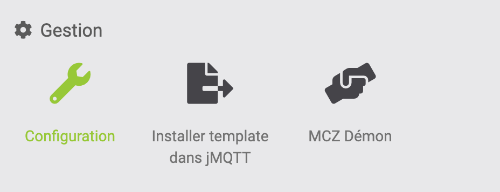
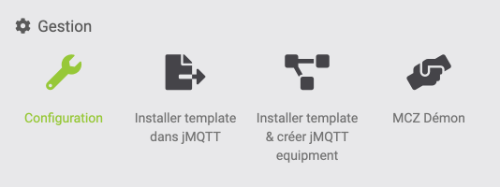
Installer & créer jMQTT equipement

diff --git a/desktop/js/mczremote.js b/desktop/js/mczremote.js
@@ -44,7 +44,7 @@ $('#bt_InstallTemplate').off('click').on('click', function() {
 /**
  * Add MCZRemote equipment callback
  */
-/*** 
+
 $('.eqLogicAction[data-action=add_MCZR]').on('click', function () {
     var eqL = {type: 'eqpt'};
     var prompt = "{{Nom de l'équipement ?}}";
@@ -77,7 +77,7 @@ $('.eqLogicAction[data-action=add_MCZR]').on('click', function () {
         }
     });
 });
-***/
+
 
 
 $('#bt_healthmczremote').on('click', function () {

diff --git a/core/class/mczremote.class.php b/core/class/mczremote.class.php
@@ -55,6 +55,7 @@ class mczremote extends eqLogic {
 
 	public static function installTemplate() {
 		$found = 0;
+		log::add('mczremote', 'debug',"installTemplate");
 		$pluginList = plugin::listPlugin($_activateOnly = true, $_orderByCategory = false, $_translate = true, $_nameOnly = true);
 		if (is_array($pluginList)) {
 			foreach ($pluginList as $val) {
@@ -66,7 +67,18 @@ class mczremote extends eqLogic {
 				//log::add('mczremote', 'debug', 'plugin: ' . $val);
 			}
 		}
-		if ($found) {
+		if ($found == 0) {
+			log::add('mczremote', 'error',"Le plugin jMQTT n'est pas installé (I01)");
+			throw new Exception("Le plugin jMQTT n'est pas installé (I01)");
+		} else {
+			if (!method_exists('jMQTT', 'templateSplitJsonPathByFile')) {
+				log::add('mczremote', 'error',"La version installée de jMQTT n'est pas assez récente (I02)");
+				throw new Exception("La version installée de jMQTT n'est pas assez récente (I02)");
+			}
+			if (!method_exists('jMQTT', 'moveTopicToConfigurationByFile')) {
+				log::add('mczremote', 'error',"La version installée de jMQTT n'est pas assez récente (I03)");
+				throw new Exception("La version installée de jMQTT n'est pas assez récente (I03)");
+			}
 			//log::add('mczremote', 'debug', 'jMQTT found  and path: ' . $pathPlugin);
 			$jMQTTPathTemplate = $pathPlugin . '/data/template' . '/MCZRemote.json';
 			$MCZRemotePathTemplate = plugin::getPluginPath('mczremote') . '/data/template' . '/MCZRemote.json';
@@ -74,18 +86,14 @@ class mczremote extends eqLogic {
 			if (file_exists( $MCZRemotePathTemplate)) {
 				$result = copy($MCZRemotePathTemplate, $jMQTTPathTemplate );
 				if ($result) {
-					if (method_exists('jMQTT', 'templateSplitJsonPathByFile')) {
-						log::add('mczremote', 'debug','Methode jMQTT::templateSplitJsonPathByFile  exist');
-						// Adapt template for the new jsonPath field
-						jMQTT::templateSplitJsonPathByFile('MCZRemote.json');
-						// Adapt template for the topic in configuration
-						jMQTT::moveTopicToConfigurationByFile('MCZRemote.json');
-					} else {
-						log::add('mczremote', 'warning','Methode jMQTT::templateSplitJsonPathByFile  not found');
-					}
+					// Adapt template for the new jsonPath field
+					jMQTT::templateSplitJsonPathByFile('MCZRemote.json');
+					// Adapt template for the topic in configuration
+					jMQTT::moveTopicToConfigurationByFile('MCZRemote.json');
 					log::add('mczremote', 'debug', 'Installation du template dans jMQTT  OK');
 				} else {
-					log::add('mczremote', 'warning', 'Installation du template dans jMQTT  NOK');
+					log::add('mczremote', 'warning', 'Installation du template dans jMQTT  NOK. (I04)');
+					throw new Exception("Installation du template dans jMQTT  NOK. (I04)");
 				}
 				
 			}
@@ -93,10 +101,11 @@ class mczremote extends eqLogic {
 
 	}
 
-/***
+
 	public static function createEqptWithTemplate($eqptName = '') {
 		$return = 0;
 		$found = 0;
+		log::add('mczremote', 'debug',"createEqptWithTemplate");
 		$pluginList = plugin::listPlugin($_activateOnly = true, $_orderByCategory = false, $_translate = true, $_nameOnly = true);
 		if (is_array($pluginList)) {
 			foreach ($pluginList as $val) {
@@ -108,7 +117,25 @@ class mczremote extends eqLogic {
 				//log::add('mczremote', 'debug', 'plugin: ' . $val);
 			}
 		}
-		if ($found) {
+		if ($found == 0) {
+			log::add('mczremote', 'error',"Le plugin jMQTT n'est pas installé (C01)");
+			throw new Exception("Le plugin jMQTT n'est pas installé (C01)");
+		} else {
+			if (!method_exists('jMQTT', 'createEqWithTemplate')) {
+				log::add('mczremote', 'error','La version installée de jMQTT ne supporte pas cette fonction. (C02)');
+				throw new Exception("La version installée de jMQTT ne supporte pas cette fonction. (C02)");
+				$return = 1;				
+			}
+			if (!method_exists('jMQTT', 'templateSplitJsonPathByFile')) {
+				log::add('mczremote', 'error',"La version installée de jMQTT n'est pas assez récente. (C03)");
+				throw new Exception("La version installée de jMQTT n'est pas assez récente. (C03)");
+			}
+			if (!method_exists('jMQTT', 'moveTopicToConfigurationByFile')) {
+				log::add('mczremote', 'error',"La version installée de jMQTT n'est pas assez récente. (C04)");
+				throw new Exception("La version installée de jMQTT n'est pas assez récente (C04)");
+			}
+
+
 			//log::add('mczremote', 'debug', 'jMQTT found  and path: ' . $pathPlugin);
 			$jMQTTPathTemplate = $pathPlugin . '/data/template' . '/MCZRemote.json';
 			$MCZRemotePathTemplate = plugin::getPluginPath('mczremote') . '/data/template' . '/MCZRemote.json';
@@ -116,40 +143,29 @@ class mczremote extends eqLogic {
 			if (file_exists( $MCZRemotePathTemplate)) {
 				$result = copy($MCZRemotePathTemplate, $jMQTTPathTemplate );
 				if ($result) {
-					if (method_exists('jMQTT', 'templateSplitJsonPathByFile')) {
-						log::add('mczremote', 'debug','Methode jMQTT::templateSplitJsonPathByFile  exist');
-						// Adapt template for the new jsonPath field
-						jMQTT::templateSplitJsonPathByFile('MCZRemote.json');
-						// Adapt template for the topic in configuration
-						jMQTT::moveTopicToConfigurationByFile('MCZRemote.json');
-					} else {
-						log::add('mczremote', 'warning','Methode jMQTT::templateSplitJsonPathByFile  not found');
-					}
-					log::add('mczremote', 'debug', 'Installation du template dans jMQTT  OK');
+					// Adapt template for the new jsonPath field
+					jMQTT::templateSplitJsonPathByFile('MCZRemote.json');
+					// Adapt template for the topic in configuration
+					jMQTT::moveTopicToConfigurationByFile('MCZRemote.json');
 				} else {
-					log::add('mczremote', 'warning', 'Installation du template dans jMQTT  NOK');
+					log::add('mczremote', 'warning', 'Installation du template dans jMQTT  NOK. (C05)');
+					throw new Exception("Installation du template dans jMQTT  NOK. (C05)");
 				}				
 			}
 
-			if (method_exists('jMQTT', 'createEqWithTemplate')) {
-				log::add('mczremote', 'debug','Methode jMQTT::createEqWithTemplate  exist');
+			// Recuperation des infos utiles pour appel jMQTT::createEqWithTemplate
+			$brkAddr = config::byKey('MQTTip', __CLASS__); 		// IP ou Hostname du Broker cible (afin de le retrouver)
+			$eqName = $eqptName;  								// Nom à donner à l'équipement dans jMQTT
+			$pathTemplate = $jMQTTPathTemplate;   				// '/var/www/........'; // Chemin vers la Template à appliquer
+			$eqTopic = config::byKey('TopicPub', __CLASS__); 	// Topic de base à remplacer dans la Template
+			$uuid = 'MCZR_eqpt'; 								// Pour retrouver l'eq lors d'un nouvel appel à la méthode
+			$eq = jMQTT::createEqWithTemplate($brkAddr, $eqName, $pathTemplate, $eqTopic, $uuid);
+			$return = 0;
 
-				// Recuperation des infos utiles pour appel jMQTT
-				$brkAddr = config::byKey('MQTTip', __CLASS__); 		// IP ou Hostname du Broker cible (afin de le retrouver)
-				$eqName = $eqptName;  								// Nom à donner à l'équipement dans jMQTT
-				$pathTemplate = $jMQTTPathTemplate;   				// '/var/www/........'; // Chemin vers la Template à appliquer
-				$eqTopic = config::byKey('TopicPub', __CLASS__); 	// Topic de base à remplacer dans la Template
-				$uuid = 'MCZR_eqpt'; 								// Pour retrouver l'eq lors d'un nouvel appel à la méthode
-				$eq = jMQTT::createEqWithTemplate($brkAddr, $eqName, $pathTemplate, $eqTopic, $uuid);
-				$return = 0;
-			} else {
-				log::add('mczremote', 'warning','Methode jMQTT::createEqWithTemplate  not found');
-				$return = 1;
-			}
 		}
 		return ($return); 
 	}
-***/
+
 
 	public static function deamon_info() {
 		$return = array();

diff --git a/desktop/php/mczremote.php b/desktop/php/mczremote.php
@@ -21,13 +21,11 @@ $eqLogics = eqLogic::byType($plugin->getId());
                 <br>
                 <span>{{Installer template dans jMQTT}}</span>
             </div>
-            <!---
             <div class="cursor eqLogicAction logoSecondary" data-action="add_MCZR">
                 <i class="fas fa-project-diagram"></i>
                 <br>
                 <span>{{Installer template & créer jMQTT equipment}}</span>
             </div>
-            --->
             <div class="cursor eqLogicAction logoSecondary" id="bt_healthmczremote">
                 <i class="fas fa-hands-helping"></i>
                 <br>

diff --git a/core/ajax/mczremote.ajax.php b/core/ajax/mczremote.ajax.php
@@ -31,7 +31,7 @@ try {
         ajax::success();
     }
 
-/***
+
     if (init('action') == 'createEqptWithTemplate') {
         log::add('mczremote', 'debug', 'Test:' . init('eqptName'));
         $result = mczremote::createEqptWithTemplate(init('eqptName'));
@@ -40,7 +40,6 @@ try {
         }
         ajax::success();
     }
-***/
 
     if (init('action') == 'health') {
         $data = md5(rand());

diff --git a/docs/fr_FR/index.md b/docs/fr_FR/index.md
@@ -20,7 +20,7 @@ Ce plugin est prévu pour être installé sur le serveur Jeedom.
 >
 > Vous devez disposer ou avoir préalablement installé un plugin MQTT connecté à un serveur MQTT. Généralement mosquitto.  
 > L'ensemble peut être installé via le plugin ***jMQTT***.
->
+> 
 
 # GESTION
 
@@ -31,6 +31,8 @@ Dans cette page, vous avez les boutons suivants:
 - Configuration: Donne l'accès à la configuration du plugin
 
 - Installer template dans jMQTT:  Permet de copier un template des commandes pour les poêles MCZ en Remote dans ***jMQTT***. L'utilisation du template est décrite dans une section spécifique.
+
+- Installer template & créer jMQTT équipement: Comme le bouton précédent, on copie le template dans jMQTT mais ensuite on crée directement l'équipement dans jMQTT. Vous devez indiquer le nom de l'équipement. Il vous reste à peaufiner la configuration de l'équipement et à terminer le commandes actions: Temp_demandee_T1  et CmdPoele.  La version beta du 30/05/2022 de jMQTT n'est pas encore fonctionnelle.
 
 - MCZ Démon: Permet de tester si le démon MCZ est toujours actif.
 

diff --git a/docs/fr_FR/changelog.md b/docs/fr_FR/changelog.md
@@ -4,6 +4,10 @@
 >
 >Pour rappel s'il n'y a pas d'information sur la mise à jour, c'est que celle-ci concerne uniquement de la mise à jour de documentation, de traduction ou de texte
 
+# 04/06/2022
+- Ajout fonction Installer template et créer équipement dans jMQTT
+- Adaptation documentation
+
 # 28/05/2022
 - Déplacement de la fonction Installer template dans jMQTT
 - Adaptation documentation
